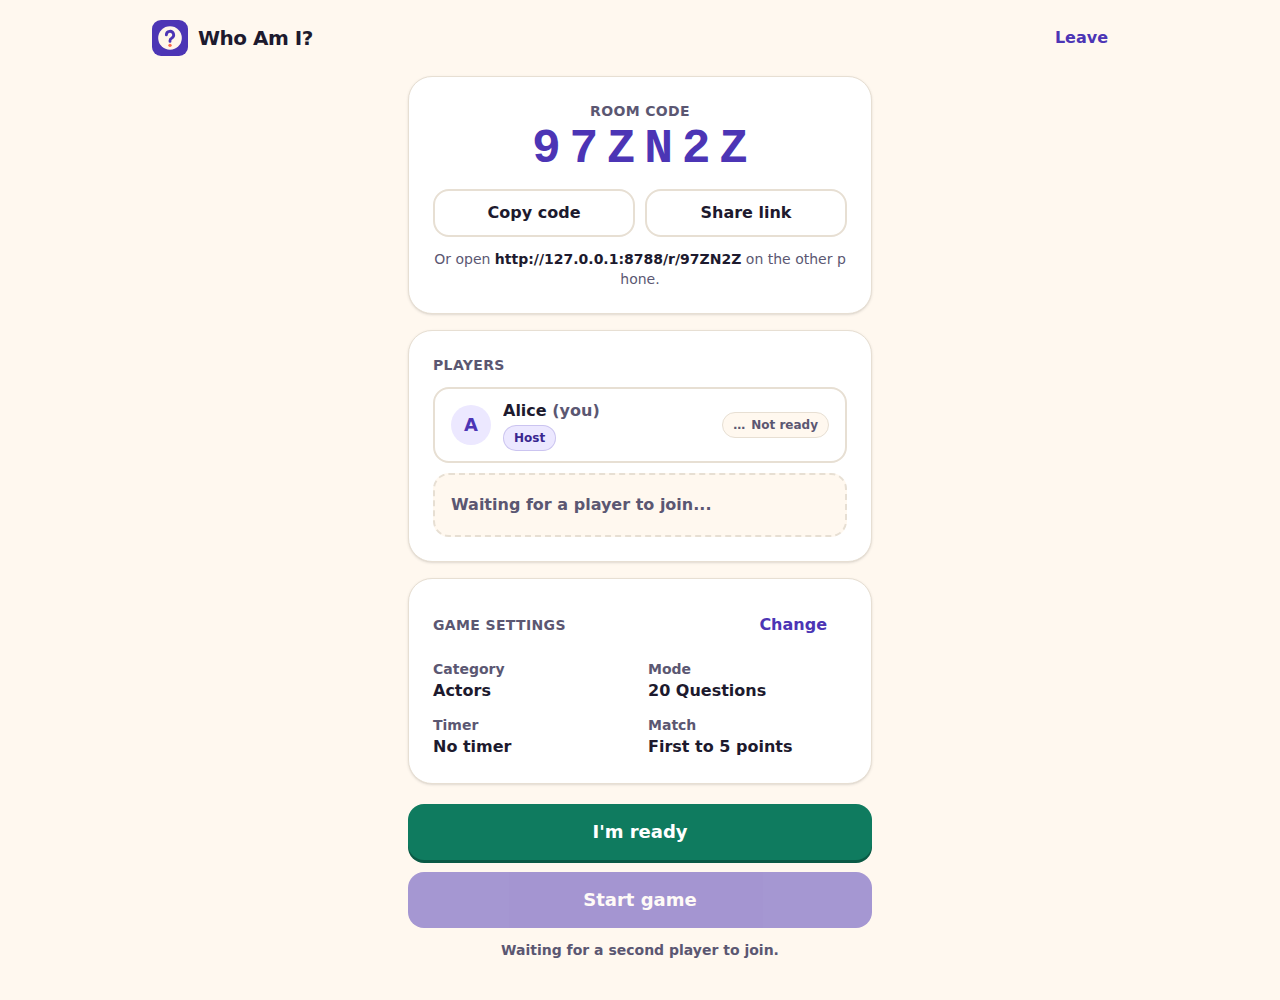
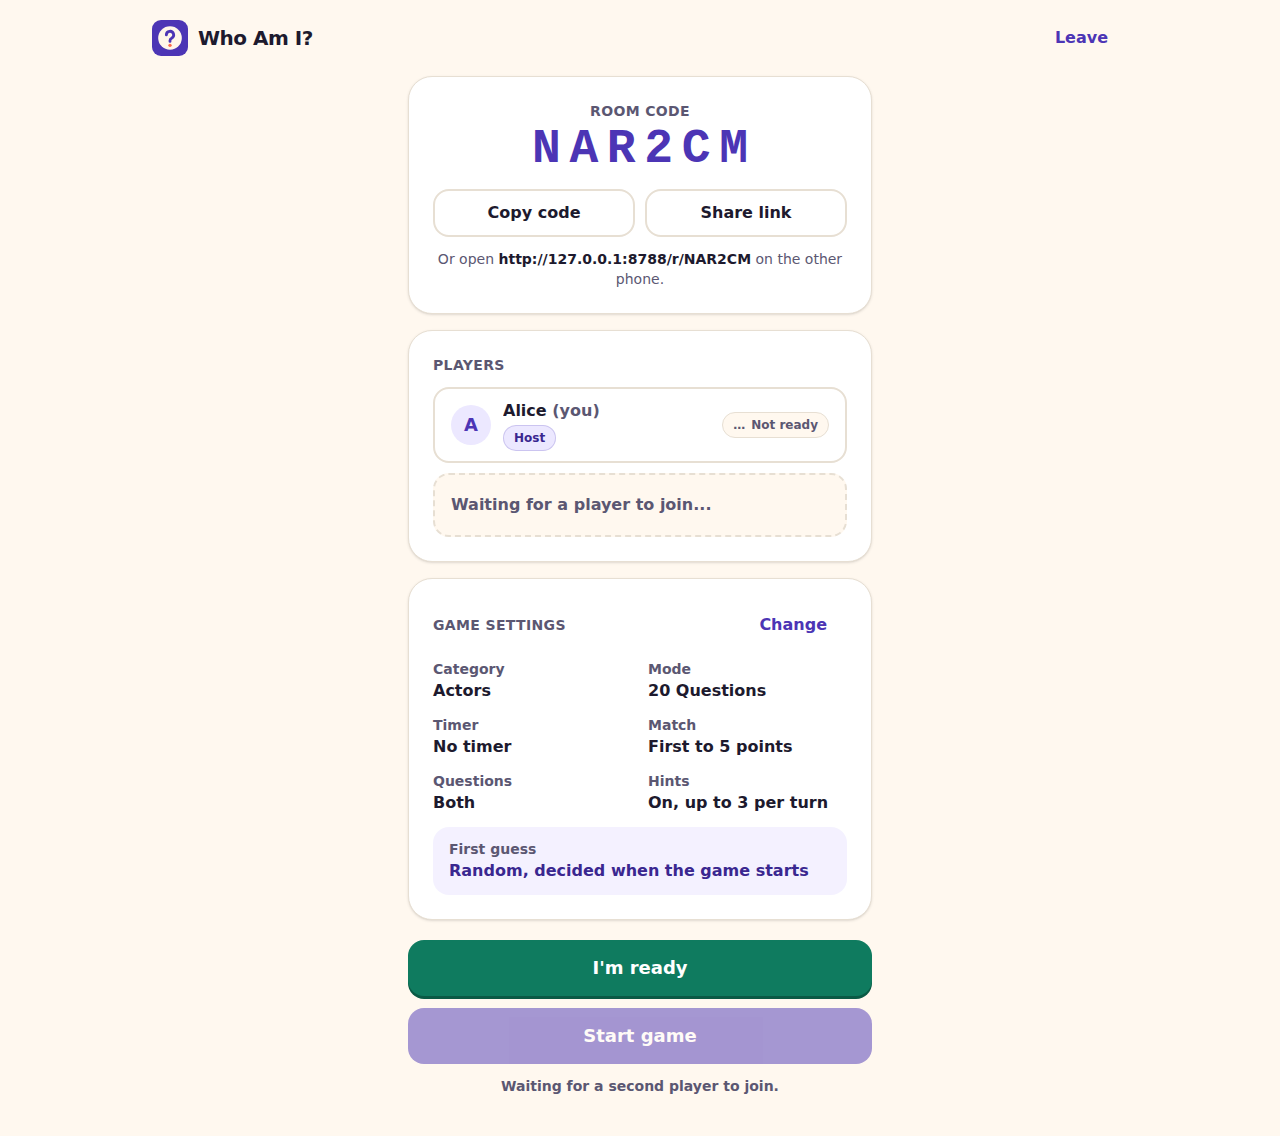
docs: roadmap, README for the new features, and fresh screenshots
Adds ROADMAP.md (online matchmaking, optional video chat, AI-written hints
for custom packs), documents turn order, rematch, in-app questions and
hints in the README, and regenerates desktop and mobile screenshots,
including the question flow on both phones, a hint, the turn-order picker
and the one-tap rematch. Long option groups now stack on phones instead
of clipping.

Release-note: skip

diff --git a/e2e/screenshots.spec.ts b/e2e/screenshots.spec.ts
@@ -1,11 +1,34 @@
 // Captures every screen at desktop (1280x800) and mobile (390x844) for design review.
-// Run with SCREENSHOTS=1 npm run e2e -- screenshots; skipped otherwise.
+// Run with SCREENSHOTS=1 npx playwright test screenshots (after vite build); skipped otherwise.
 import { expect, test, type Page } from "@playwright/test";
 import { createGame, joinGame, newPlayer } from "./support";
 
 const OUT = "docs/screenshots";
 
 test.skip(!process.env.SCREENSHOTS, "Set SCREENSHOTS=1 to regenerate docs/screenshots");
+
+/** Plays one round where Alice guesses correctly and Bob skips, in whichever order the server chose. */
+async function playRound(A: Page, B: Page) {
+  await expect(A.getByTestId("turn-headline")).not.toBeEmpty();
+  const aliceFirst = (await A.getByTestId("turn-headline").textContent()) === "Your turn to guess";
+  const aliceTurn = async () => {
+    await expect(A.getByTestId("turn-headline")).toHaveText("Your turn to guess");
+    await A.getByRole("button", { name: "I Guessed It" }).click();
+    await B.getByRole("button", { name: "Yes, correct" }).click();
+  };
+  const bobTurn = async () => {
+    await expect(B.getByTestId("turn-headline")).toHaveText("Your turn to guess");
+    await B.getByRole("button", { name: "Skip" }).click();
+  };
+  if (aliceFirst) {
+    await aliceTurn();
+    await bobTurn();
+  } else {
+    await bobTurn();
+    await aliceTurn();
+  }
+  await expect(A.getByRole("heading", { name: "The big reveal" })).toBeVisible();
+}
 
 for (const device of ["desktop", "mobile"] as const) {
   test(`screens on ${device}`, async ({ browser }) => {
@@ -25,7 +48,7 @@ for (const device of ["desktop", "mobile"] as const) {
     await A.getByTestId("pack-actors").click();
     await shot(A, "02-create-setup");
 
-    const { link } = await createGame(A, { nickname: "Alice", pack: "actors" });
+    const { link } = await createGame(A, { nickname: "Alice", pack: "actors", first: "Random" });
     await shot(A, "03-lobby-host-waiting");
 
     await B.goto(link);
@@ -33,41 +56,69 @@ for (const device of ["desktop", "mobile"] as const) {
     await B.getByLabel("Your nickname").fill("Bob");
     await shot(B, "04-join");
     await joinGame(B, link, "Bob");
+
+    // The host's turn-order picker in the lobby.
+    await A.getByRole("button", { name: "Change" }).click();
+    await A.getByRole("radio", { name: "Me", exact: true }).check();
+    await shot(A, "05-lobby-host-turn-order-picker");
+    await A.getByRole("button", { name: "Save settings" }).click();
     await A.getByRole("button", { name: "I'm ready" }).click();
     await expect(B.getByTestId("slot-A")).toContainText("Ready");
-    await shot(A, "05-lobby-host");
-    await shot(B, "06-lobby-guest");
+    await expect(B.getByTestId("first-player")).toContainText("Alice goes first");
+    await shot(A, "06-lobby-host");
+    await shot(B, "07-lobby-guest");
 
     await B.getByRole("button", { name: "I'm ready" }).click();
     await A.getByRole("button", { name: "Start game" }).click();
     await expect(A.getByTestId("opponent-identity")).not.toBeEmpty();
     await expect(B.getByTestId("opponent-identity")).not.toBeEmpty();
-    await shot(A, "07-game-alice-guessing");
-    await shot(B, "08-game-bob-answering");
+    await shot(A, "08-game-alice-guessing");
+    await shot(B, "09-game-bob-answering");
+
+    // In-app question: Alice asks, Bob answers on his phone, both logs update.
+    await A.getByRole("button", { name: "Am I a real person?" }).click();
+    await expect(B.getByTestId("pending-question")).toBeVisible();
+    await shot(A, "10-question-alice-waiting");
+    await shot(B, "11-question-bob-answer-buttons");
+    await B.getByRole("button", { name: "Yes", exact: true }).click();
+    await expect(A.getByTestId("log-question")).toContainText("Yes");
+
+    // A hint, shown on both phones.
+    await A.getByRole("button", { name: "Get a hint" }).click();
+    await expect(B.getByTestId("log-hint")).toHaveCount(1);
+    await shot(A, "12-hint-and-log-alice");
+    await shot(B, "13-hint-and-log-bob");
 
     await A.getByRole("button", { name: "I Guessed It" }).click();
     await expect(B.getByRole("button", { name: "Yes, correct" })).toBeVisible();
-    await shot(B, "09-game-bob-confirm");
+    await shot(B, "14-game-bob-confirm");
     await B.getByRole("button", { name: "Yes, correct" }).click();
     await expect(B.getByTestId("turn-headline")).toHaveText("Your turn to guess");
-    await shot(B, "10-game-bob-guessing");
+    await shot(B, "15-game-bob-guessing");
     await B.getByRole("button", { name: "Skip" }).click();
     await expect(A.getByRole("heading", { name: "The big reveal" })).toBeVisible();
-    await shot(A, "11-round-summary-alice");
-    await shot(B, "12-round-summary-bob");
+    await shot(A, "16-round-summary-alice");
+    await shot(B, "17-round-summary-bob");
 
     for (let round = 2; round <= 5; round++) {
       await A.getByRole("button", { name: "Next round" }).click();
-      await A.getByRole("button", { name: "I Guessed It" }).click();
-      await B.getByRole("button", { name: "Yes, correct" }).click();
-      await B.getByRole("button", { name: "Skip" }).click();
-      await expect(A.getByRole("heading", { name: "The big reveal" })).toBeVisible();
+      await expect(A.getByRole("heading", { name: `Round ${round}` })).toBeVisible();
+      if (round === 2) await shot(A, "18-round-2-bob-goes-first");
+      await playRound(A, B);
     }
     await A.getByRole("button", { name: "See final results" }).click();
     await expect(A.getByTestId("match-headline")).toBeVisible();
     await expect(B.getByTestId("match-headline")).toBeVisible();
-    await shot(A, "13-match-summary-alice");
-    await shot(B, "14-match-summary-bob");
+    await shot(A, "19-match-summary-alice");
+
+    // One-tap rematch: Alice asks, Bob sees the request and accepts, and the next match starts.
+    await A.getByRole("button", { name: "Rematch" }).click();
+    await expect(B.getByText("Alice wants a rematch.")).toBeVisible();
+    await shot(A, "20-rematch-alice-waiting");
+    await shot(B, "21-rematch-bob-accept");
+    await B.getByRole("button", { name: "Accept rematch" }).click();
+    await expect(B.getByTestId("round-starter")).toHaveText("You go first this round.");
+    await shot(B, "22-rematch-started-loser-first");
 
     await alice.context.close();
     await bob.context.close();

diff --git a/src/client/components/SettingsForm.tsx b/src/client/components/SettingsForm.tsx
@@ -60,7 +60,7 @@ function Option({
     <label
       data-testid={testId}
       className={[
-        "relative flex min-h-11 cursor-pointer items-center gap-3 rounded-2xl border-2 px-3.5 py-2.5 transition",
+        "relative flex min-h-11 cursor-pointer items-center gap-2.5 rounded-2xl border-2 px-3 py-2.5 transition sm:gap-3 sm:px-3.5",
         "has-[:focus-visible]:outline has-[:focus-visible]:outline-3 has-[:focus-visible]:outline-offset-2 has-[:focus-visible]:outline-brand",
         checked ? "border-brand bg-brand-soft/60" : "border-line bg-white hover:border-brand/40",
       ].join(" ")}
@@ -110,14 +110,14 @@ export function SettingsForm({ value, onChange }: { value: Settings; onChange: (
         <div className="grid grid-cols-3 gap-2.5">
           {([0, 60, 90] as const).map((t) => (
             <Option key={t} name="timer" checked={value.timerSeconds === t} onChange={() => set("timerSeconds", t)}>
-              <span className="font-bold">{t === 0 ? "Off" : `${t} s`}</span>
+              <span className="whitespace-nowrap font-bold">{t === 0 ? "Off" : `${t} s`}</span>
             </Option>
           ))}
         </div>
       </Group>
 
       <Group legend="Who goes first">
-        <div className="grid grid-cols-3 gap-2.5">
+        <div className="grid gap-2.5 sm:grid-cols-3">
           {(Object.keys(FIRST_PLAYER_LABELS) as FirstPlayerOption[]).map((option) => (
             <Option key={option} name="first" checked={(value.firstPlayer ?? "random") === option} onChange={() => set("firstPlayer", option)}>
               <span className="font-bold">{FIRST_PLAYER_LABELS[option]}</span>
@@ -128,7 +128,7 @@ export function SettingsForm({ value, onChange }: { value: Settings; onChange: (
       </Group>
 
       <Group legend="Questions">
-        <div className="grid grid-cols-3 gap-2.5">
+        <div className="grid gap-2.5 sm:grid-cols-3">
           {(Object.keys(QUESTION_MODE_LABELS) as QuestionMode[]).map((mode) => (
             <Option key={mode} name="questions" checked={(value.questions ?? "both") === mode} onChange={() => set("questions", mode)}>
               <span className="font-bold">{QUESTION_MODE_LABELS[mode]}</span>

diff --git a/README.md b/README.md
@@ -11,20 +11,29 @@ No account, no app install: one player creates a room, the other opens the invit
 
 ## How to play
 
-1. One player taps **Create game**, picks a category, a mode, a turn timer and the match length, and enters a nickname.
+1. One player taps **Create game**, picks a category, a mode, a turn timer, how questions are asked, hints on or off, who goes first and the match length, and enters a nickname.
 2. The other player opens the invite link (or enters the 6-character room code) on their own phone and joins.
 3. Both tap **I'm ready**, and the host taps **Start game**.
 4. Each screen shows your opponent's character and "Your identity: Hidden".
 5. On your turn, ask yes/no questions (**20 Questions**) or listen to your opponent's clues (**Describe It**).
+   Ask out loud, or send a question in the app: pick a suggested one or type your own, and your opponent answers on their phone with Yes, No, Sort of or Don't know.
+   Both phones keep a log of the turn's questions and answers, and sent questions count toward the 20 Questions counter.
+   Stuck? Tap **Get a hint** for up to three hints per turn, from vague to strong. Hints are free.
    When you think you know, say it out loud and tap **I Guessed It**.
 6. Your opponent confirms the guess.
    A correct guess scores 1 point, a skip scores 0, and a timed-out turn counts as a skip.
-7. When both players have had their turn, the round summary reveals both identities.
+7. When both players have had their turn, the round summary reveals both identities and shows how many hints each player used.
 8. The match ends at **first to 5 points** or **best after 10 rounds**.
    When both players tap **Rematch**, the next match starts right away with the same settings and a fresh shuffle, and the loser goes first.
    **Change settings** returns to the lobby instead.
 
-Who guesses first alternates every round. The host picks who starts round 1 in the lobby: me, my opponent, or random.
+Who guesses first alternates every round.
+The host picks who starts round 1 in the lobby: me, my opponent, or random.
+A rematch avoids the identities from the previous match until the pack runs out.
+
+The room setting **Questions** (Spoken, In the app, Both; default Both) controls which question controls appear, and **Hints** (On, Off; default On) controls the hint button.
+
+See [ROADMAP.md](ROADMAP.md) for where the game could go next: online matchmaking, optional video chat and AI-written hints for custom packs.
 
 Categories: Actors, Movie Characters, Historical Figures, Video Games, Brand Mascots, Anime & Cartoons, and Mixed (weighted from all of them).
 Identities never repeat within a match until a pack runs out, at which point the game says "Pack exhausted, reshuffling".
@@ -57,11 +66,11 @@ For hot reload of the UI, keep `wrangler dev` running and start Vite in a second
 
 ## Tests
 
-- **Unit tests** (`test/engine.test.ts`, `test/view.test.ts`, `test/content.test.ts`) cover the state machine transitions, idempotency (duplicate confirm and skip clicks score once), version checks, the two-player cap, distinct and non-repeating draws, reshuffling, timer timeouts and pauses, the host override, and the per-player view filter.
+- **Unit tests** (`test/engine.test.ts`, `test/view.test.ts`, `test/content.test.ts`) cover the state machine transitions, turn order (alternation, the lobby setting, loser-first rematches and the tie rule), one-tap rematch, idempotency (duplicate confirm and skip clicks score once), version checks, the two-player cap, distinct and non-repeating draws, reshuffling, timer timeouts and pauses, the host override, hints, in-app questions and their rate limit, the per-player view filter, and the hint content rules.
 - **Worker and Durable Object tests** (`test/worker.test.ts`) exercise the real HTTP API, signed sessions, WebSockets, rate limiting and alarms in `workerd`.
-- **End-to-end tests** (`e2e/`) drive two separate browser contexts through the full acceptance scenario: create an Actors game, join by invite link, ready up, guess, confirm, skip, reveal, five rounds to a winner, then rematch.
-  While doing so they record every HTTP response body and WebSocket frame each browser receives, plus the page HTML and localStorage, and assert that a player's own identity (name and id) never appears before the round summary.
-  Other E2E tests cover refresh and reconnect restoring the right seat, a third browser being turned away, unknown room codes, and a timed turn running out.
+- **End-to-end tests** (`e2e/`) drive two separate browser contexts through the full acceptance scenario: create an Actors game, join by invite link, ready up, ask an in-app question, request hints, guess, confirm, skip, reveal, five rounds with alternating first guessers to a winner, then a one-tap rematch started by the loser.
+  While doing so they record every HTTP response body and WebSocket frame each browser receives, plus the page HTML and localStorage, and assert that a player's own identity (name and id) never appears before the round summary, and that each hint arrives only after it was requested.
+  Other E2E tests cover in-app questions on both phones (including typed HTML shown as plain text), the Questions setting, the lobby turn-order picker, simultaneous Ready taps, refresh and reconnect restoring the right seat, a third browser being turned away, unknown room codes, and a timed turn running out.
 
 ## Secrecy model
 
@@ -76,6 +85,10 @@ Keeping your own identity secret is the core of the game, so it is enforced on t
 - Each WebSocket is tagged with its player, and every broadcast is rendered separately per socket.
 - Command responses and errors carry the same filtered view.
 - Clients send commands, never identities or scores; the server ignores anything else.
+- Hints are stored with each identity on the server.
+  The server adds a hint to the turn log only when the guesser asks for it, one at a time, so unrequested hints never leave the Durable Object.
+  A content test guarantees no hint contains any identity's name or alias, so neither your own hints nor your opponent's can spell out who you are.
+- In-app questions are plain text (Zod-validated, at most 140 characters, rendered as text, never HTML) and rate limited per player.
 
 ### Sessions
 
@@ -123,10 +136,10 @@ e2e/         Playwright tests
 
 ## Content
 
-Each pack is a typed data file in `src/worker/content` using the `Identity` shape (`id`, `canonicalName`, `aliases`, `categoryId`, `tags`, `difficulty`, `active`, optional `imageUrl`).
+Each pack is a typed data file in `src/worker/content` using the `Identity` shape (`id`, `canonicalName`, `aliases`, `categoryId`, `tags`, `difficulty`, `active`, optional `imageUrl`) plus exactly three curated `hints`, vague to strong.
 Ids are `<pack>.<slug>` and must stay stable once published.
 Names only, no images.
-A unit test rejects duplicate ids and names that overlap across packs.
+A unit test rejects duplicate ids, names that overlap across packs, and hints that are missing, too long, or contain any identity's name or alias.
 
 ## License
 

diff --git a/ROADMAP.md b/ROADMAP.md
@@ -1,0 +1,52 @@
+# Roadmap
+
+Where Who Am I? could go after the two-friends MVP.
+Each item lists what it is, why it matters, and what has to exist first.
+
+## 1. Play with random people online
+
+**What:** a "Play online" button that pairs you with another player who is waiting, instead of sharing a room code.
+
+**Why:** today you need a friend on hand.
+Matchmaking makes the game playable any time, and the in-app questions and answers already let two strangers play without a call.
+
+**Prerequisites:**
+
+- **Lobby and queue:** a matchmaking Durable Object that holds waiting players by pack and mode, pairs them, creates a room and hands both players a session.
+  It needs timeouts, cancellation and a fallback when nobody is waiting.
+- **Identity and accounts:** at least a persistent anonymous player id, and probably optional sign-in, so that reports and blocks stick to a person rather than a browser tab.
+- **Reporting and blocking:** report and block buttons in the game and on the summary screens, a block list that the matchmaker respects, and a place where reports are reviewed.
+- **Rate limits:** per-player limits on queue joins, rooms per hour, questions and reports, on top of today's per-IP join limits.
+- **Abuse handling:** typed questions become a chat channel between strangers.
+  They need a profanity and harassment filter, link and contact-detail blocking, escalating mutes and bans, and logs kept long enough to act on reports.
+- **Age considerations:** a clear minimum age, an age gate before online play, and stricter defaults (suggested questions only, no free text) for anyone who may be a minor.
+  Check COPPA and similar rules before launch.
+- **Terms and privacy:** terms of use and a privacy policy that cover strangers, reports and retained logs.
+
+## 2. Optional video chat between matched players
+
+**What:** an opt-in camera and microphone call inside the game, so remote players can ask questions face to face like they would on a couch.
+
+**Why:** spoken questions and reactions are the most fun part of the game, and today remote players need a separate call app.
+
+**Prerequisites:**
+
+- **Media:** Cloudflare Realtime (Calls) for WebRTC sessions, with TURN for players behind strict NATs.
+  The room Durable Object already coordinates both players and can hand out session tokens.
+- **Consent:** both players must opt in separately, with clear camera and mic indicators and a one-tap way to turn either off.
+- **Moderation:** video between strangers needs more than text filters: an instant end-and-report button, blocking, possibly automated nudity detection, and a policy that limits video to signed-in adults.
+  Friends-only video (room code, no matchmaking) is a much safer first step.
+- **Cost and limits:** per-minute media pricing, per-player caps and a fallback to audio only.
+
+## 3. AI-generated hints for custom packs
+
+**What:** let players build their own packs (for example, "people in our office" or "our favorite bands") and have AI write the three hints for each entry.
+
+**Why:** custom packs keep the game fresh for groups, and writing three good hints per identity by hand is the slow part.
+
+**Prerequisites:**
+
+- **Custom packs:** creation and storage (D1 or Durable Object storage), ownership and sharing, and the P2 custom-pack feature from the original PRD.
+- **Generation:** Workers AI or another model producing vague-to-strong hints, run through the same checks as the curated packs: no name or alias in any hint, bounded length, and no names of other entries.
+- **Safety:** filters against defamatory or hurtful hints about real people, a review and edit step before a pack can be used, and reporting for shared packs.
+- **Cost controls:** cache generated hints and limit generations per user.
